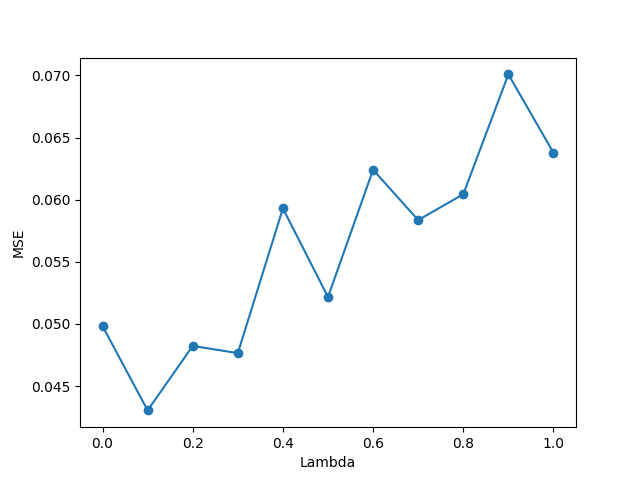
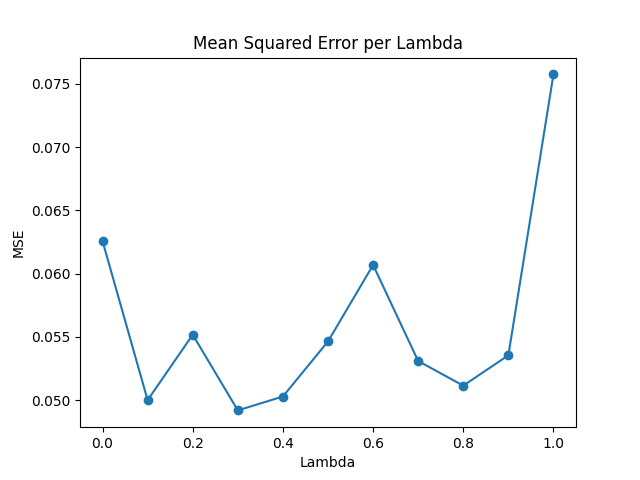
Added README

diff --git a/utils.py b/utils.py
@@ -29,6 +29,7 @@ def plotValueFunction(Q, path):
 
 def plotMSEsPerLambda(MSEs, lambdas, path):
 	plt.plot(lambdas, MSEs, marker='o')
+	plt.title('Mean Squared Error per Lambda')
 	plt.xlabel('Lambda')
 	plt.ylabel('MSE')
 	plt.savefig(path + 'td.png')
@@ -38,6 +39,7 @@ def plotMSEsPerEpisode(MSEs, lambdas, path):
 	for i in range(len(lambdas)):
 		plt.plot(MSEs[i], label=lambdas[i])
 	plt.legend()
+	plt.title('Mean Squared Error per Episode')
 	plt.xlabel('Episode')
 	plt.ylabel('MSE')
 	plt.savefig(path + 'td_.png')

diff --git a/README.md b/README.md
@@ -1,0 +1,13 @@
+# Easy21
+
+Code to solve David Silver's Easy21 assignment, in the context of a Reinforcement Learning course available [here](https://www.davidsilver.uk/teaching/).
+
+### Monte-Carlo Control
+
+![Monte Carlo](/plots/monte_carlo.png)
+
+### TD Learning
+
+![TD Learning](/plots/td.png)
+
+![TD Learning](/plots/td_.png)
